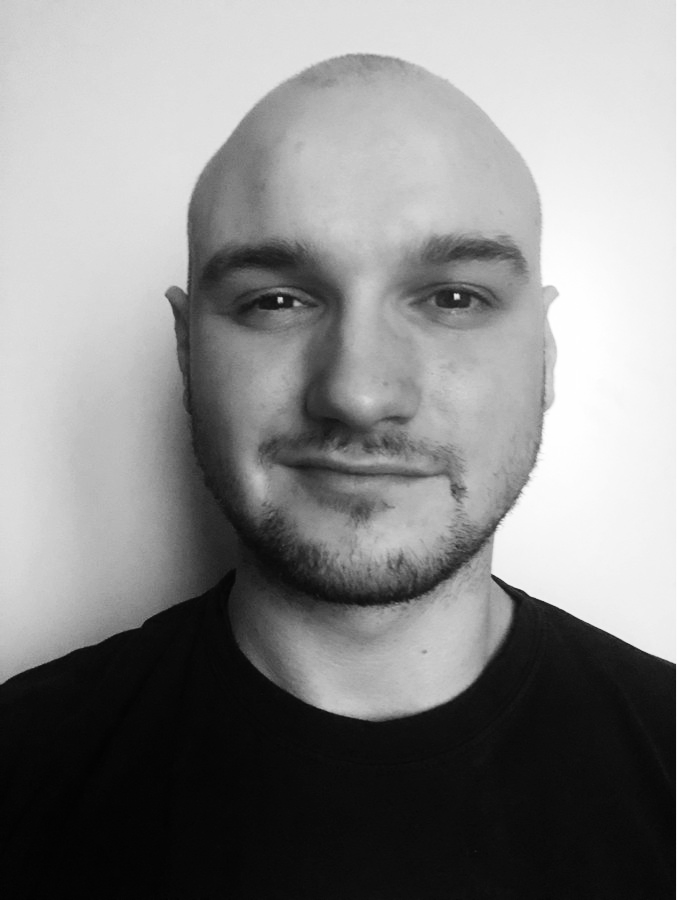
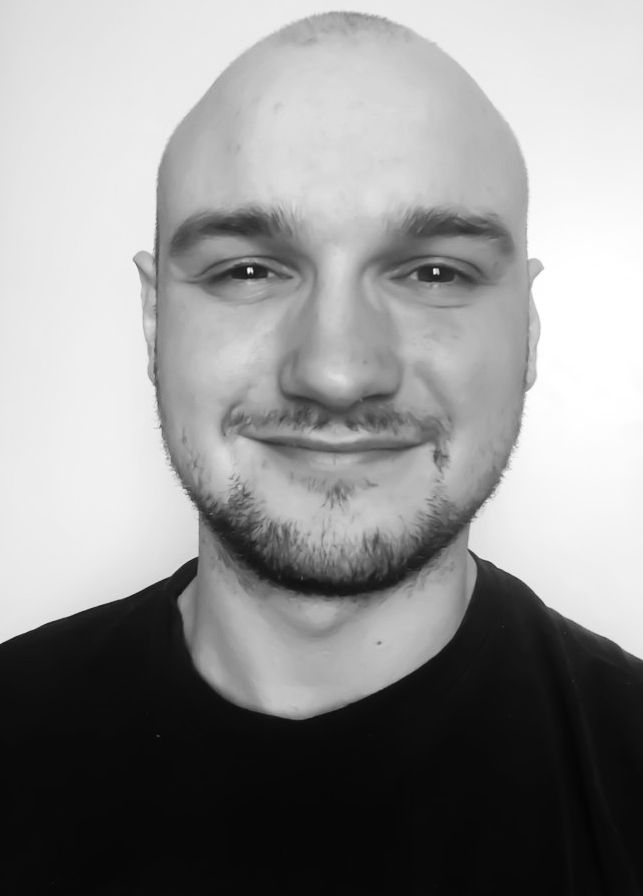
fixed positioning
-fixed positioning of the presentation component children

diff --git a/src/index.css b/src/index.css
@@ -6,79 +6,44 @@
   margin-left: 65%;
 }
 #navbar {
-  background-color: #bac6cf;
+  background-color: rgba(237, 242, 250,1)
 }
 #presentation {
   width: 100%;
   margin: auto;
   margin-top: 15px;
-
-  text-align: center;
-}
-#container {
-  width: 100%;
-  margin: auto;
-  position: relative;
-  text-align: center;
-}
-#resume {
-  position: absolute;
-  left: 0;
-  right: 0;
-  bottom: 15%;
-  margin: auto;
-  background-color: white;
-  opacity: 0.9;
-  font-family: "Poppins";
-  text-align: center;
+  
+  
+  
 }
 
-#pres-img {
-  width: 1366px;
-  height: 768px;
-  padding: 3px;
-  opacity: 0.7;
-}
-#propic {
-  position: absolute;
-  left: 0;
-  right: 0;
-  margin: auto;
-  bottom: 45%;
+#background{
   width: 100%;
-  opacity: 0.95;
+  height: 100%;
+  margin:auto;
+  background-image: url(../src/images/Urban.jpg);
+  background-repeat: no-repeat;
+  background-position: center;
+  padding:1px;
+  text-align: center;
+  
 }
-#portrait {
+#propic{
   border-radius: 50%;
+  margin-top: 10%;
+  opacity: 0.85;
+  
+  
 }
-
-@media (max-width: 375px) {
-  #propic {
-    bottom: 65%;
-  }
+#resume{
+ 
+  background-color: white;
+  opacity: 0.7;
+  margin-top: 1%;
+  margin-bottom: 10px;
 }
-@media (max-width: 414px) {
-  #propic {
-    bottom: 65%;
-  }
-}
-@media (max-width: 360px) {
-  #propic {
-    bottom: 66%;
-  }
-}
-@media (max-width: 741px) {
-  #propic {
-    bottom: 50%;
-  }
-}
-@media (max-width: 599px) {
-  #propic {
-    bottom: 55%;
-  }
-}
-@media (max-width: 507px) {
-  #propic {
-    bottom: 57%;
-  }
+h5{
+  line-height: 35px;
+  font-family: 'Poppins';
+  
 }

diff --git a/src/components/Presentation.jsx b/src/components/Presentation.jsx
@@ -7,23 +7,18 @@ class Presentation extends Component {
     render() { 
         return ( 
             <div id='presentation'>
-                <div id="container">
-                <img id="pres-img" src={image} alt="urban skyscrapers"></img>
-                <div id="propic">
-                    <img id="portrait" width="140" height="150" src={propic} alt="profile pic"></img>
-                </div>
-                <div id="resume"><h3><b>Hello i'm Philippe!</b></h3><br />
-                <h5>I'm a young enthusiast of web and softwares developing,<br />
+               <div id="background">
+                   <img id="propic" width="145" height="150" src={propic} alt="portrait"></img>
+                   <div id="resume">
+                       <h3><b>Hey! my name is Philippe</b></h3>
+                       <h5>I'm a young enthusiast of web and softwares developing,<br />
                     actually i'm into a deep learning of the various technologies related. <br />
                I am interested in new projects or hiring opportunities for new ones,<br />
                my motivation and dedication leads my way through each project i start developing,<br />
                so i consider myself a dinamic,motivated and a focused person who is in constantly research of realizing his goals.</h5>
+                    </div>
+
                </div>
-                </div>
-                
-
-
-
             </div>
          );
     }

diff --git a/src/components/Header.jsx b/src/components/Header.jsx
@@ -5,7 +5,7 @@ class Header extends Component {
     render() { 
         return ( 
            <header style={{marginLeft:40,marginTop:20,fontFamily:'Poppins'}}>
-               <h1 style={{color:"black"}}>Philippe Rota</h1>
+               <h1 style={{color:"black"}}>Welcome!</h1>
            </header>
          );
     }
